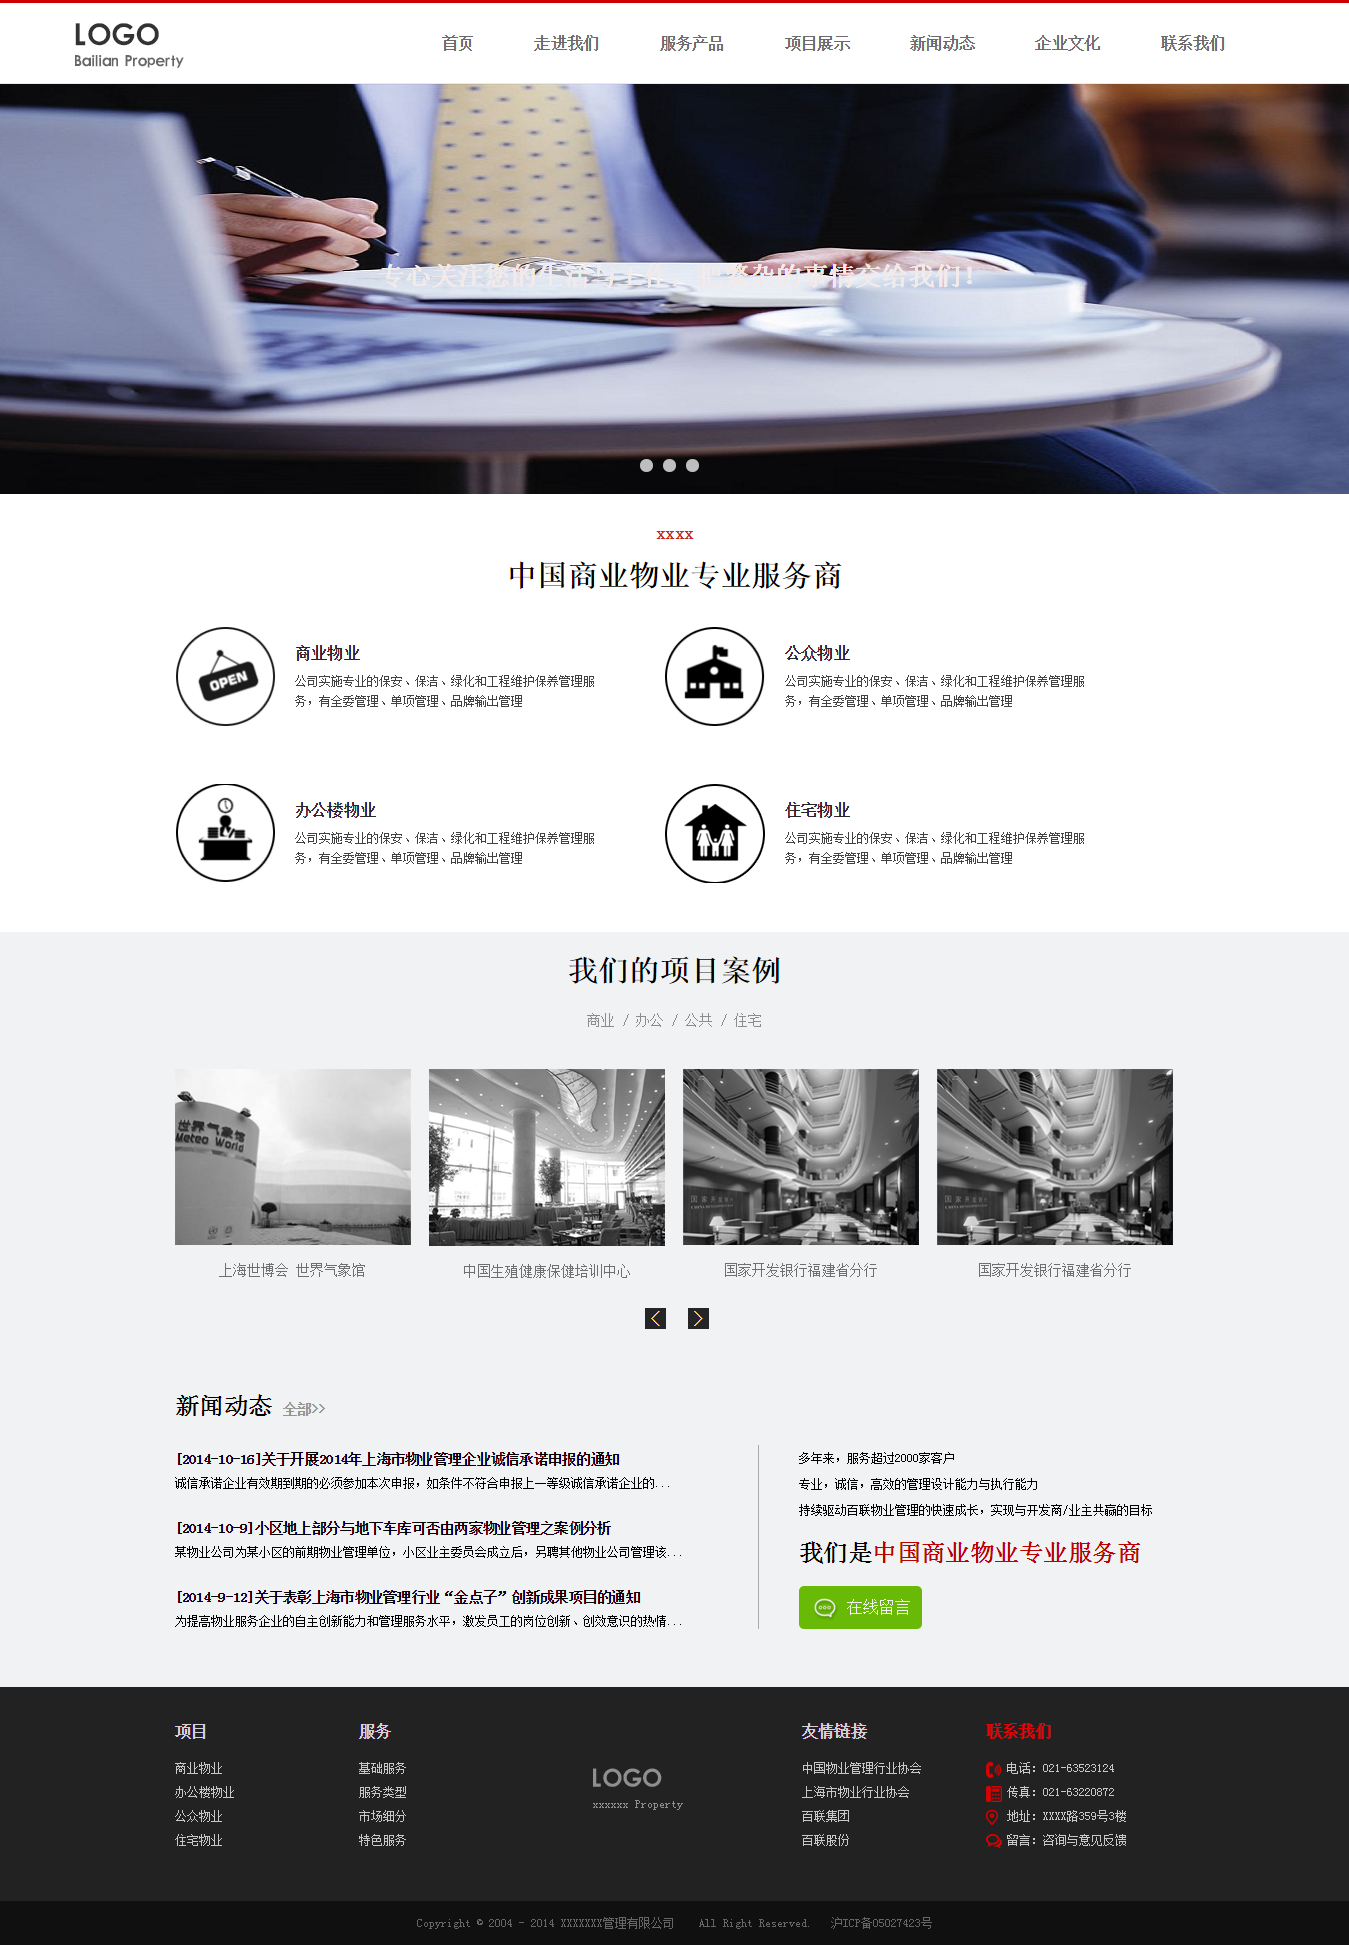
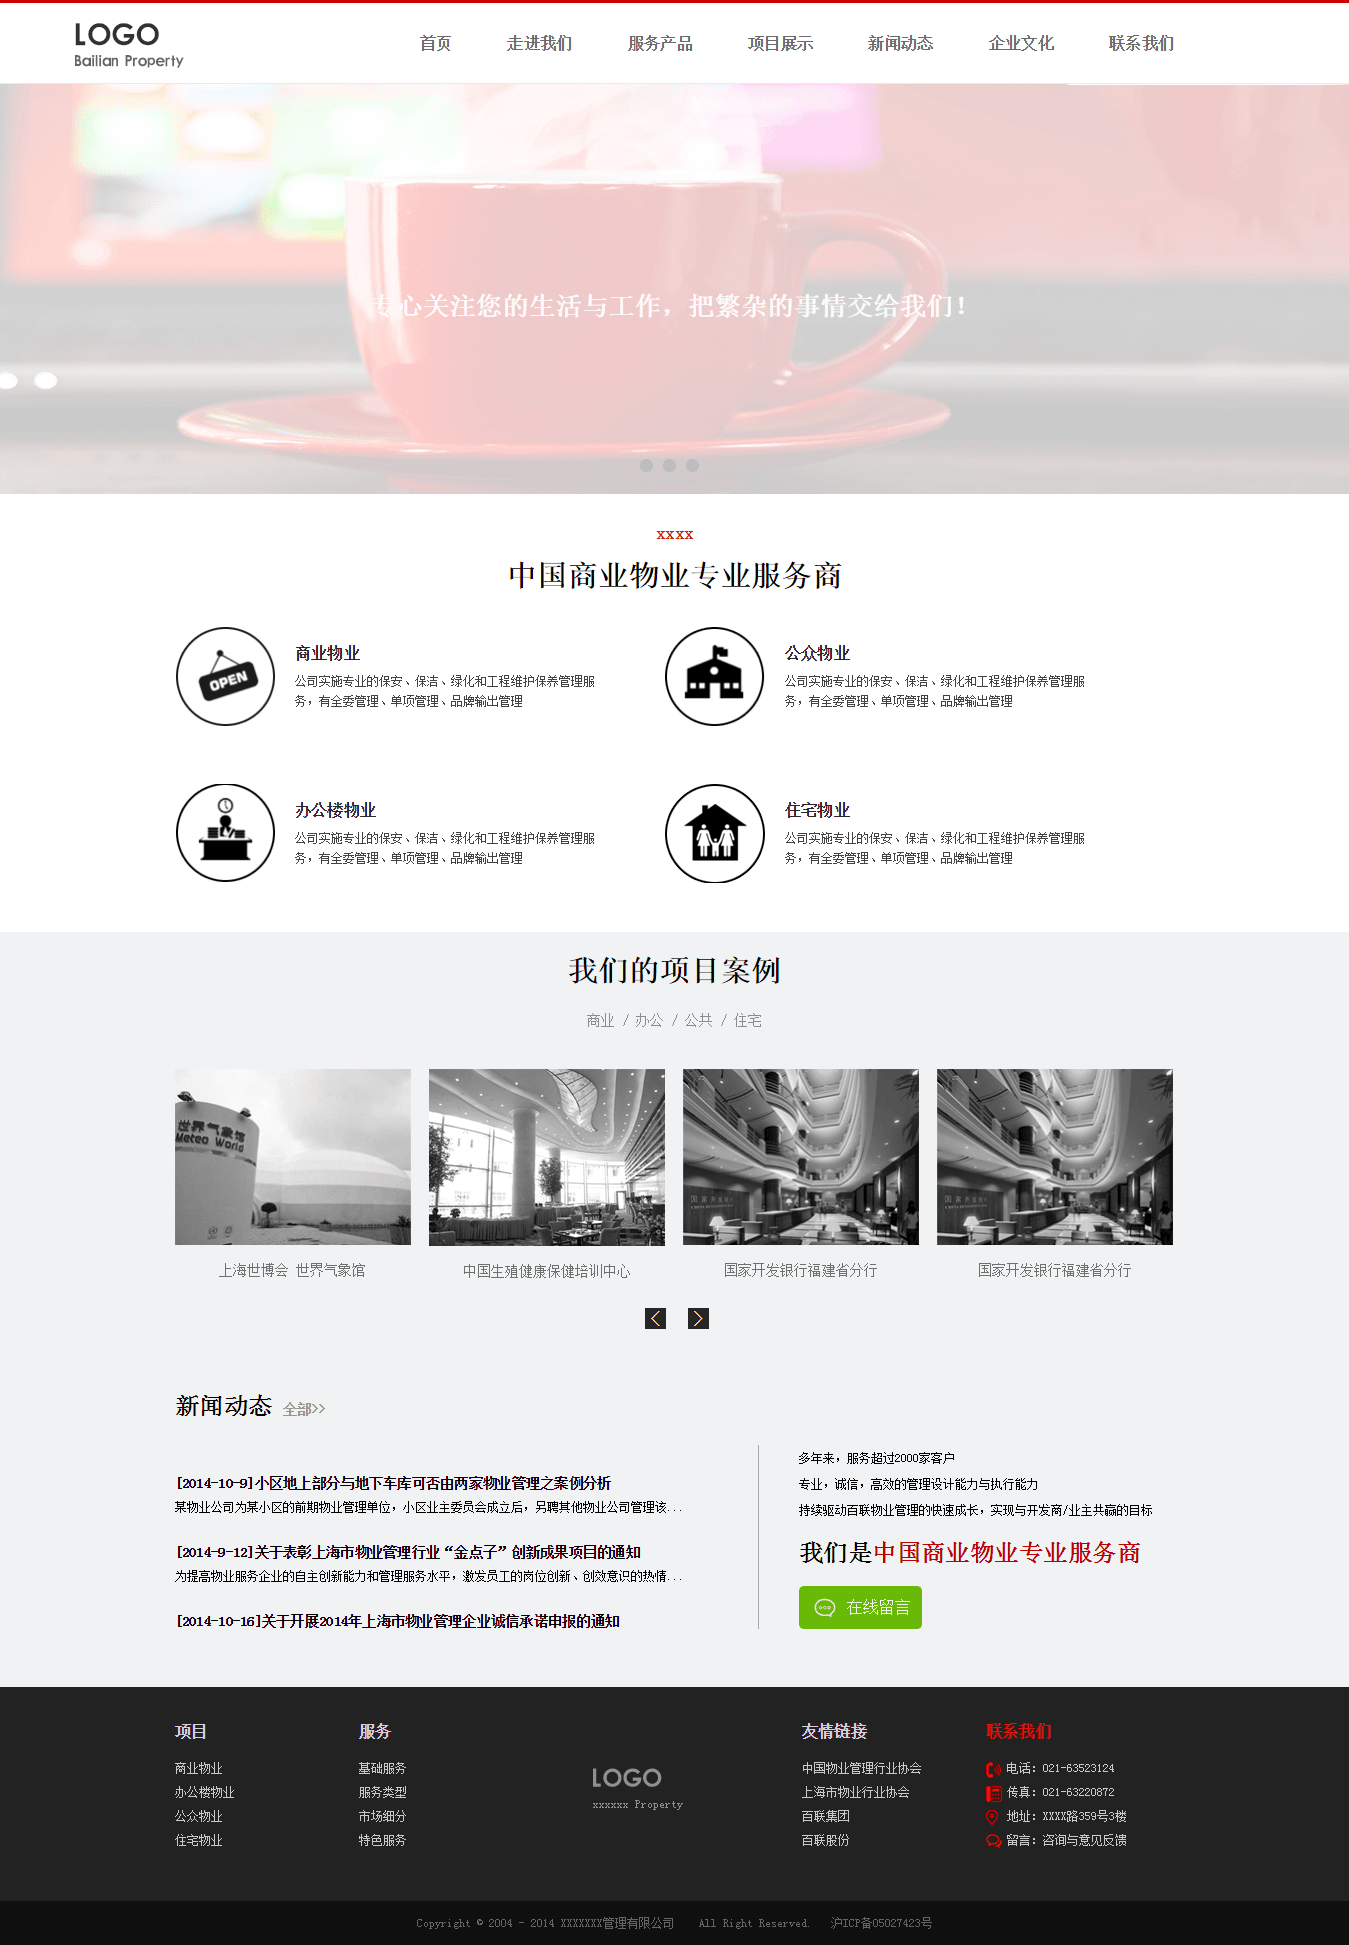
压缩图片，完善自适应效果

Changed region(s): [[0.0, 0.0, 1.0, 0.2776], [0.1245, 0.7404, 0.4981, 0.8638]]

diff --git a/仿站20170304/css/main.css b/仿站20170304/css/main.css
@@ -4,8 +4,9 @@ body{font-family: "Micorsoft Yahei";}
 .wrapper_s{max-width: 1000px;height: auto;margin: 0 auto;}
 /*header*/
 header{width: 100%;height: 80px;background: #fff;border-top: 3px solid #c00;position: fixed;top: 0;z-index: 9999;}
-header div.wrapper_l{background:url(../img/logo.png) no-repeat ; background-position: 40px 20px;padding-left: 28%;}
-header nav{overflow: hidden;display: inline-block;padding: 0;z-index: 9999;height: 80px;width: 100%;}
+header img{margin-top: 20px;float: left;}
+header .menu_icon{display: block;width: 35px;height: 35px;background: url('../img/menu_icon.png') no-repeat;float: right;margin-top: 23px;display: none;}
+header nav{overflow: hidden;display: inline-block;padding: 0;z-index: 9999;margin-left: 18%;width: 70%;}
 header nav ul{list-style: none;}
 nav li{list-style: none;}
 header nav ul li{float: left;margin-right: 1.8%;font-size: 16px;line-height: 20px;font-weight: bold;}
@@ -19,7 +20,7 @@ header nav ul li a:hover{color: #fff;background: #c00;font-weight:bolder;}
 .caroufredsel_wrapper{margin: 0 auto!important;}
 .show .testi_slider{width:100%;height: auto;overflow: hidden;}
 .show .testi_slider .t{text-align: center;float: left;height: auto;}
-.show .testi_slider p{color: #f3eaea;font-size: 26px;line-height: 24px;font-weight: bold;position:absolute;top: 180px;left:4%;}
+.show .testi_slider p{color: #f3eaea;font-size: 26px;line-height: 24px;font-weight: bold;position:relative;top: -200px;margin: 0 auto;}
 .show #t_navigation{position: absolute;bottom: 20px;left: 50%;margin-left: -34.5px;}
 .show #t_navigation a{display: inline-block;width: 13px;height: 13px;background: #bebebe;text-decoration: none;margin-right: 10px;margin-top: 40px;border-radius: 100px;-webkit-border-radius: 100px;-moz-border-radius: 100px;-o-border-radius: 100px;
 }
@@ -63,7 +64,7 @@ header nav ul li a:hover{color: #fff;background: #c00;font-weight:bolder;}
 footer{padding-top: 36px;background: #222;color: #d4d4d4;min-height: 222px;position: relative;margin-bottom: -9999px;overflow: hidden;}
 footer dl{display: block;float: left;width: 18.4%;font-size: 16px;font-weight: bold;}
 footer dl dt{color: #c8c8c8;font-size: 12px;padding-bottom: 12px;font-weight: normal;}
-footer dl dt:first-child{margin-top: 23px;}
+footer dl span{display:block;margin-bottom: 23px;}
 footer dl dt a{text-decoration: none;color: #c8c8c8;}
 .footer_list .footer_logo{width:101px;height:38px;background: url(../img/footer_logo.png) no-repeat;display: block;float: left;padding-top: 26px;margin: 45px 108px 96px 50px;}
 .footer_list .footer_logo span{font-size: 11.62px;color: #8f8f8f;}
@@ -79,12 +80,65 @@ footer .rights{height: 44px;width: 100%;background-color: #101010;color: #666;fo
 	.wrapper_l,.wrapper_s{
 	padding: 0 40px;
 	}
-	.show .testi_slider p{font-size: 24px;position:absolute;top: 180px;left:3%;}
+	header nav{margin-left: 10%;}
+	header nav ul li a{padding: 30px 8px;}
 	footer dl{width: 25%;}
 	.footer_list .footer_logo{display: none;}
 }
+@media(max-width: 1000px){
+	header .menu_icon{
+        display: block;
+    }
+	header img{float: none;}
+    header nav{
+        display: block;
+        background: #fff;
+        margin: 12px 0 0 30%;
+        padding: 0;
+        border-left: 0;
+        border-top: 1px #ccc solid;
+        overflow: hidden;
+        text-align: center;
+        position: relative;
+        z-index: 9999;
+        display: none;
+    }
+    header nav{
+        border-bottom-left-radius: 2px; 
+        -webkit-border-bottom-left-radius: 2px; 
+        -moz-border-bottom-left-radius: 2px; 
+        -o-border-bottom-left-radius: 2px; 
+        border-bottom-right-radius: 2px; 
+        -webkit-border-bottom-right-radius: 2px; 
+        -moz-border-bottom-right-radius: 2px; 
+        -o-border-bottom-right-radius: 2px; 
+    }
+    header nav.show_menu{
+        display: block;
+    }
+    header nav ul li{
+        margin: 0;
+        width: 100%;
+        border-bottom: 1px #ccc solid;
+        float: none;
+    }
+    header nav ul li:last-child{
+        border-bottom: 0;
+    }
+    header nav ul li a{
+        display: block;
+        width: 100%;
+        padding: 20px 0;
+    }
+    header nav ul li a:active{
+        display: block;
+        width: 100%;
+        padding: 20px 0;
+        background: #2c2c2c;
+    }
+
+}
 @media(max-width: 800px){
-	header nav ul li a{padding: 30px 10px;}
 	.news .news_l,.news .news_r{width: 100%;text-align: center;}
 	.news .news_r{padding-top: 40px;border: 0;margin: 0 auto;padding-left: 0;}
 	.news .news_r a[href]{margin: 0 auto;width:100px;}
@@ -92,19 +146,28 @@ footer .rights{height: 44px;width: 100%;background-color: #101010;color: #666;fo
 	.projects_show .project{width:48%;margin-right: 1.8%;height: auto;}
 	.projects_show .project p{margin-bottom: 16px;margin-top: 10px;}
 	.projects .direction a{margin-left: 43%;}
-	.show .testi_slider p{font-size: 20px;position:absolute;top: 180px;left:2%;}
-	footer dl{width: 50%;margin-bottom: 30px;}
-	footer div.wrapper_s{height:450px;}
+	footer dl{width: 33%;margin-bottom: 10px;}
+	footer div.wrapper_s{min-height:400px;}
+	footer dl.contact{width: 100%;margin-top: 20px;}
+	footer dl.contact dt,.footer_list .contact a{display: inline-block;}
+	.footer_list .contact a{width: 20%;margin-bottom: 0;}
+	footer dl.contact dt{width: 30%;margin-left: 3%;}
+	.footer_list .address{margin-left: 24%;}
 }
 @media(max-width: 600px){
-	.show .testi_slider p{font-size: 18px;left:1%;}
+	.footer_list .contact a{width: 100%;margin-bottom: 0;}
+	footer dl.contact dt{width: 40%;margin-left: 3%;}
+	.footer_list .address{margin-left: 3%;margin-bottom: 10px;}
+	
 }
 @media(max-width: 500px){
 	.projects_show .project{width:100%;height: auto;float: left;}
 	.projects_show .project p{margin-bottom: 16px;margin-top: 10px;}
 	.projects .direction a{margin-left: 40%;}
-	.show .testi_slider p{display: none;}
 	footer dl{width: 100%;margin-bottom: 20px;}
-	footer dt{display: inline-block;margin-left: 10px;}
+	footer dt{display: inline-block;margin-left: 10px;padding-bottom: 0;}
+	.footer_list .address{padding-bottom: 0;}
+	footer dl.contact dt{width: 80%;margin-left: 3%;}
+	footer div.wrapper_s{min-height:600px;}
 }
 }

diff --git a/仿站20170304/index.html b/仿站20170304/index.html
@@ -14,6 +14,8 @@
 	<!--header开始-->
 	<header>
 		<div class="wrapper_l">
+		<img src="img/logo.png">
+		<a href="#" class="menu_icon" id="menu_icon"></a>
 			<nav id="nav_menu">
 				<ul>
 					<li><a href="#">首页</a></li>
@@ -139,13 +141,13 @@
 	<footer>
 		<div class="wrapper_s">
 			<div class="footer_list">
-				<dl>项目
+				<dl><span>项目</span>
 					<dt>商业物业</dt>
 					<dt>办公楼物业</dt>
 					<dt>公众物业</dt>
 					<dt>住宅物业</dt>
 				</dl>
-				<dl>服务
+				<dl><span>服务</span>
 					<dt>基础服务</dt>
 					<dt>服务类型</dt>
 					<dt>市场细分</dt>
@@ -154,13 +156,13 @@
 				<div class="footer_logo">
 					<span>xxxxxx Property</span>
 				</div>
-				<dl>友情链接
+				<dl><span>友情链接</span>
 					<dt><a href="#">中国物业管理行业协会</a></dt>
 					<dt><a href="#">上海市物业行业协会</a></dt>
 					<dt><a href="#">百联集团</a></dt>
 					<dt><a href="#">百联股份</a></dt>
 				</dl>
-				<dl class="contact"><a name="contact">联系我们</a>
+				<dl class="contact"><a name="contact"><span>联系我们</span></a>
 					<dt class="phone">电话：021-63523124</dt>
 					<dt class="fax">传真：021-63220872</dt>
 					<dt class="address">地址：XXXX路359号3楼</dt>

diff --git a/仿站20170304/js/main.js b/仿站20170304/js/main.js
@@ -1,3 +1,4 @@
+
 $(document).ready(function(){
 
     /*  Stuff Slider  */
@@ -23,8 +24,6 @@ $(document).ready(function(){
         $("#nav_menu").toggleClass("show_menu");
         return false;
     });
-
 });
-
 
 
